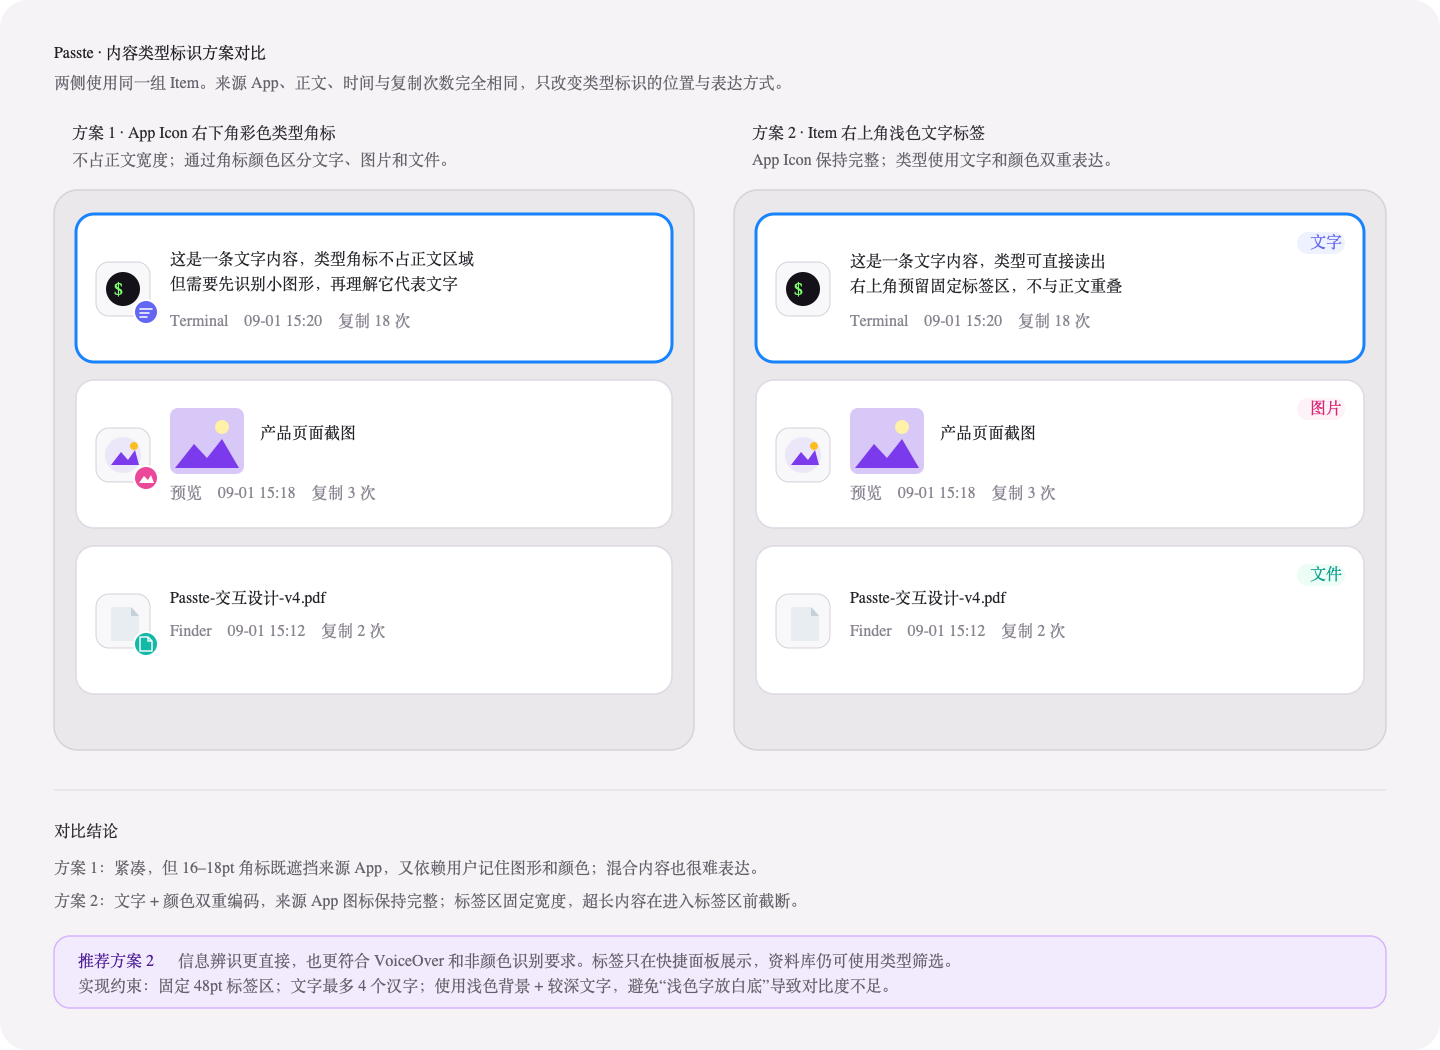
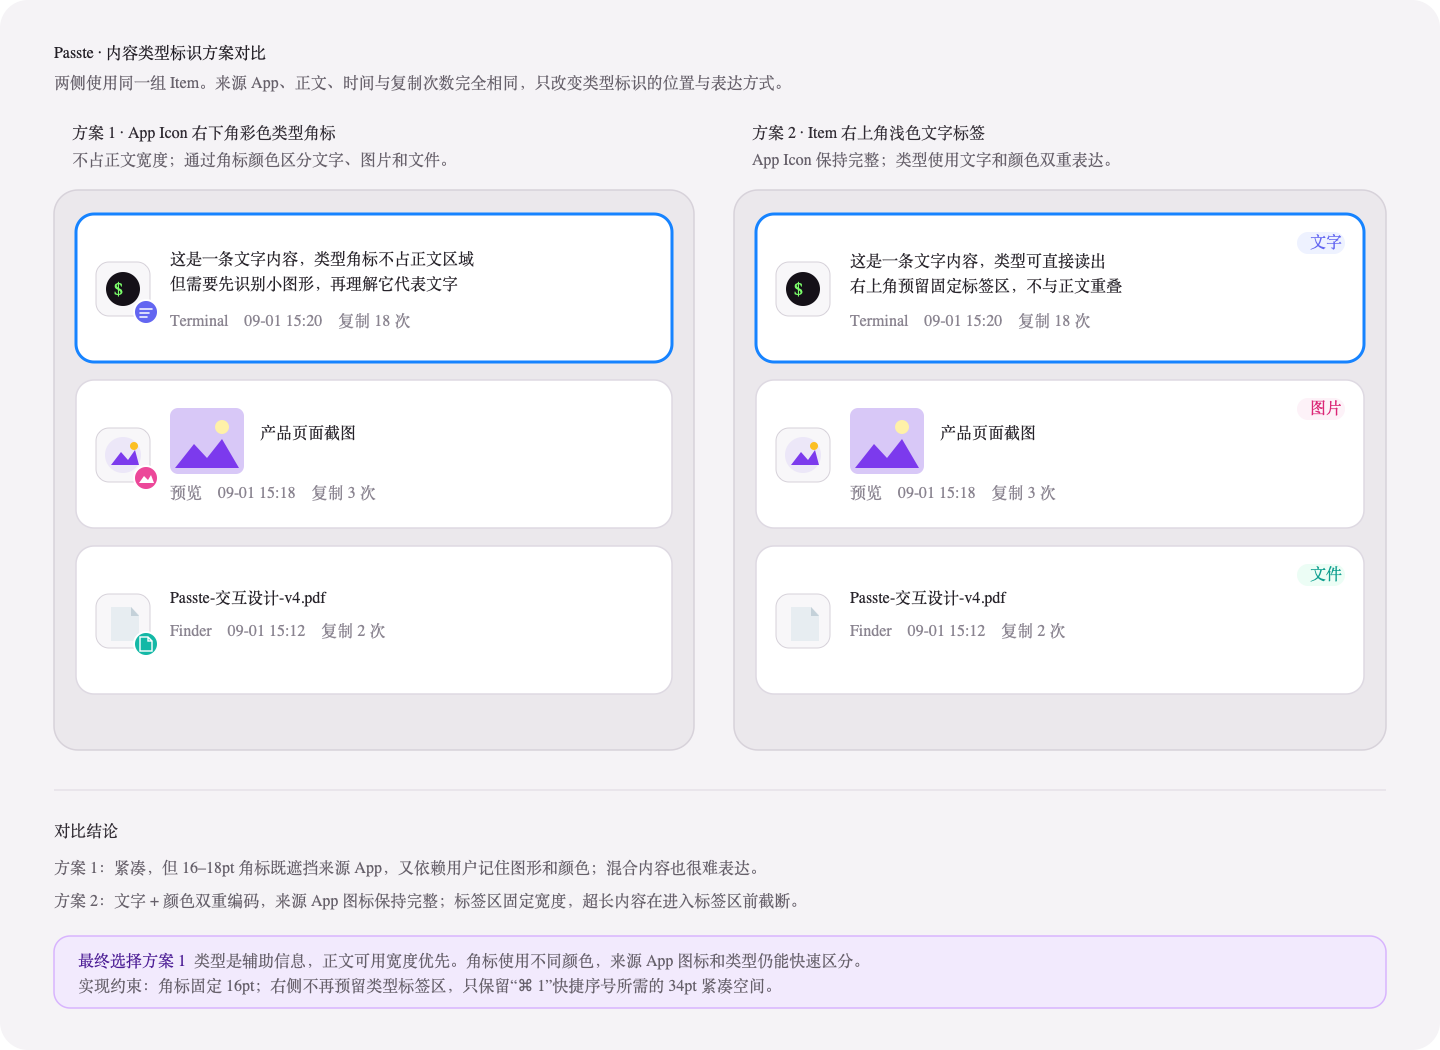
fix: prioritize clip content width

Changed region(s): [[0.0625, 0.8838, 0.6562, 0.9448]]

diff --git a/Sources/Passte/AppCoordinator.swift b/Sources/Passte/AppCoordinator.swift
@@ -13,6 +13,9 @@ final class AppCoordinator: NSObject, NSMenuDelegate {
     private var libraryWindow: NSWindow?
     private var settingsWindow: NSWindow?
     private var onboardingWindow: NSWindow?
+#if DEBUG
+    private var debugQuickWindow: NSWindow?
+#endif
     private var workspaceObserver: NSObjectProtocol?
     private var libraryKeyMonitor: Any?
     private var maintenanceTimer: Timer?
@@ -60,18 +63,36 @@ final class AppCoordinator: NSObject, NSMenuDelegate {
 
     func start() {
         configureStatusItem()
+#if DEBUG
+        if !ProcessInfo.processInfo.arguments.contains("--debug-disable-hotkey") {
+            registerHotKey()
+        }
+#else
         registerHotKey()
+#endif
         Task { await state.bootstrap() }
         maintenanceTimer = Timer.scheduledTimer(withTimeInterval: 86_400, repeats: true) { [weak state] _ in
             Task { @MainActor in await state?.runArchive() }
         }
         settings.monitoringEnabled = true
+#if DEBUG
+        if !ProcessInfo.processInfo.arguments.contains("--debug-disable-monitor") {
+            monitor.start()
+        }
+#else
         monitor.start()
+#endif
         if !settings.completedOnboarding {
             openOnboarding()
         }
 #if DEBUG
-        if ProcessInfo.processInfo.arguments.contains("--debug-show-quick-panel") {
+        if ProcessInfo.processInfo.arguments.contains("--debug-show-quick-window") {
+            Task { [weak self] in
+                guard let self else { return }
+                if ProcessInfo.processInfo.arguments.contains("--debug-seed") { await seedDebugData() }
+                try? await Task.sleep(for: .milliseconds(600)); openDebugQuickWindow()
+            }
+        } else if ProcessInfo.processInfo.arguments.contains("--debug-show-quick-panel") {
             Task { [weak self] in
                 guard let self else { return }
                 if ProcessInfo.processInfo.arguments.contains("--debug-seed") { await seedDebugData() }
@@ -85,6 +106,34 @@ final class AppCoordinator: NSObject, NSMenuDelegate {
     }
 
 #if DEBUG
+    private func openDebugQuickWindow() {
+        let view = QuickPanelView(
+            state: state,
+            onCopy: { _, _, _ in },
+            onOpenLibrary: {},
+            onOpenSettings: {},
+            onCreateTextClip: {},
+            onCreateCollection: { _ in },
+            onEditCollection: { _ in },
+            onDeleteCollection: { _ in }
+        )
+        let window = NSWindow(
+            contentRect: NSRect(x: 0, y: 0, width: 380, height: 660),
+            styleMask: [.titled, .closable, .resizable],
+            backing: .buffered,
+            defer: false
+        )
+        window.title = "Passte 快捷面板实际测试"
+        window.contentViewController = NSHostingController(rootView: view.frame(width: 380, height: 660))
+        window.setContentSize(NSSize(width: 380, height: 660))
+        window.center()
+        window.isReleasedWhenClosed = false
+        debugQuickWindow = window
+        window.makeKeyAndOrderFront(nil)
+        NSApp.activate(ignoringOtherApps: true)
+        Task { await state.prepareQuickPanel() }
+    }
+
     private func seedDebugData() async {
         let samples = [
             ("这是一条用于验证超长文本截断和布局边界的剪贴板内容，它不应该把时间、来源应用或快捷键挤出卡片，也不能覆盖相邻的条目。", "com.apple.Terminal", "一个名称同样非常长的测试来源应用"),
@@ -102,8 +151,13 @@ final class AppCoordinator: NSObject, NSMenuDelegate {
             await state.accept(capture)
         }
         if var metadataSample = state.quickClips.first {
-            metadataSample.title = String(repeating: "这是一个很长的用户标题，用来验证标题会在卡片边界内截断。", count: 5)
-            metadataSample.note = String(repeating: "这是一条很长的备注，用于确认标题、正文、备注、复制次数和图钉同时存在时仍然清晰。", count: 10)
+            if ProcessInfo.processInfo.arguments.contains("--debug-screenshot-seed") {
+                metadataSample.title = "快捷面板类型标识实际测试：超长标题需要在标签前截断"
+                metadataSample.note = "备注、正文、类型标签和复制次数不能互相覆盖"
+            } else {
+                metadataSample.title = String(repeating: "这是一个很长的用户标题，用来验证标题会在卡片边界内截断。", count: 5)
+                metadataSample.note = String(repeating: "这是一条很长的备注，用于确认标题、正文、备注、复制次数和图钉同时存在时仍然清晰。", count: 10)
+            }
             metadataSample.isPinned = true
             metadataSample.copyCount = 128
             state.update(metadataSample)
@@ -125,6 +179,21 @@ final class AppCoordinator: NSObject, NSMenuDelegate {
             )
             await state.accept(capture)
         }
+        let linkCapture = PasteboardCapture(
+            items: [CapturedItem(order: 0, representations: [CapturedRepresentation(uti: "public.url", data: Data("https://passte.app/design/type-marker".utf8))])],
+            source: ClipSource(appName: "Safari", bundleIdentifier: "com.apple.Safari", confidence: .high)
+        )
+        await state.accept(linkCapture)
+        let codeCapture = PasteboardCapture(
+            items: [CapturedItem(order: 0, representations: [CapturedRepresentation(uti: "public.utf8-plain-text", data: Data("swift test && make verify".utf8))])],
+            source: ClipSource(appName: "终端", bundleIdentifier: "com.apple.Terminal", confidence: .high)
+        )
+        await state.accept(codeCapture)
+        let fileCapture = PasteboardCapture(
+            items: [CapturedItem(order: 0, representations: [CapturedRepresentation(uti: "public.file-url", data: Data("file:///tmp/Passte-%E4%BA%A4%E4%BA%92%E8%AE%BE%E8%AE%A1-v4.pdf".utf8))])],
+            source: ClipSource(appName: "访达", bundleIdentifier: "com.apple.finder", confidence: .high)
+        )
+        await state.accept(fileCapture)
         _ = await state.addCollection(name: "开发资料", smart: false)
         _ = await state.addCollection(name: "Lark Open API", smart: false)
         _ = await state.addCollection(name: "KMP", smart: false)

diff --git a/Sources/Passte/ClipViews.swift b/Sources/Passte/ClipViews.swift
@@ -41,7 +41,9 @@ struct ClipRowView: View {
             .frame(maxWidth: .infinity, alignment: .leading)
             Spacer(minLength: 4)
             VStack(alignment: .trailing, spacing: 0) {
-                ClipKindLabel(kind: clip.primaryKind)
+                if !ClipTypeMarkerPreview.overlaysSourceIcon {
+                    ClipKindLabel(kind: clip.primaryKind)
+                }
                 Spacer(minLength: 0)
                 if let shortcutNumber {
                     Text("⌘ \(shortcutNumber)")
@@ -50,14 +52,17 @@ struct ClipRowView: View {
                         .fixedSize()
                 }
             }
-            .frame(width: compact ? 54 : 58, height: 56, alignment: .trailing)
+            .frame(
+                width: ClipTypeMarkerPreview.overlaysSourceIcon ? (compact ? 34 : 38) : (compact ? 54 : 58),
+                height: 56,
+                alignment: .trailing
+            )
             .padding(.trailing, 4)
             .padding(.bottom, 4)
         }
         .frame(height: compact ? 72 : 72)
         .clipped()
-        .accessibilityElement(children: .combine)
-        .accessibilityLabel(accessibilitySummary)
+        .modifier(ClipRowAccessibility(summary: accessibilitySummary))
     }
 
     private var timestamp: String {
@@ -162,17 +167,42 @@ struct ClipRowView: View {
     }
 }
 
+private struct ClipRowAccessibility: ViewModifier {
+    let summary: String
+
+    @ViewBuilder
+    func body(content: Content) -> some View {
+#if DEBUG
+        if ProcessInfo.processInfo.arguments.contains("--debug-ui-qa") {
+            content.accessibilityHidden(true)
+        } else {
+            content.accessibilityElement(children: .combine).accessibilityLabel(summary)
+        }
+#else
+        content.accessibilityElement(children: .combine).accessibilityLabel(summary)
+#endif
+    }
+}
+
 private struct ClipLeadingVisual: View {
     let clip: Clip
     @State private var appIcon: NSImage?
 
     var body: some View {
-        ZStack {
+        ZStack(alignment: .bottomTrailing) {
             if let appIcon {
                 Image(nsImage: appIcon).resizable().scaledToFit().padding(3)
             } else {
                 RoundedRectangle(cornerRadius: 9).fill(Color.accentColor.opacity(0.12))
                 Image(systemName: clip.primaryKind.symbolName).foregroundStyle(Color.accentColor)
+            }
+            if ClipTypeMarkerPreview.overlaysSourceIcon {
+                Image(systemName: clip.primaryKind.symbolName)
+                    .font(.system(size: 8, weight: .bold))
+                    .foregroundStyle(.white)
+                    .frame(width: 16, height: 16)
+                    .background(clip.primaryKind.markerColor, in: Circle())
+                    .overlay(Circle().stroke(.white, lineWidth: 1.5))
             }
         }
         .clipShape(RoundedRectangle(cornerRadius: 9))
@@ -194,17 +224,19 @@ private struct ClipKindLabel: View {
     var body: some View {
         Text(kind.displayName)
             .font(.system(size: 10, weight: .semibold))
-            .foregroundStyle(markerColor)
+            .foregroundStyle(kind.markerColor)
             .lineLimit(1)
             .fixedSize()
             .padding(.horizontal, 7)
             .padding(.vertical, 3)
-            .background(markerColor.opacity(0.10), in: Capsule())
-            .accessibilityLabel("内容类型：\(kind.displayName)")
+            .background(kind.markerColor.opacity(0.10), in: Capsule())
+            .accessibilityHidden(true)
     }
+}
 
-    private var markerColor: Color {
-        switch kind {
+private extension ClipKind {
+    var markerColor: Color {
+        switch self {
         case .text: Color(red: 0.39, green: 0.40, blue: 0.95)
         case .image: Color(red: 0.86, green: 0.15, blue: 0.47)
         case .link: Color(red: 0.10, green: 0.45, blue: 0.86)
@@ -213,6 +245,16 @@ private struct ClipKindLabel: View {
         case .file: Color(red: 0.06, green: 0.62, blue: 0.56)
         case .mixed: Color(red: 0.42, green: 0.40, blue: 0.45)
         }
+    }
+}
+
+private enum ClipTypeMarkerPreview {
+    static var overlaysSourceIcon: Bool {
+#if DEBUG
+        !ProcessInfo.processInfo.arguments.contains("--debug-type-marker-as-label")
+#else
+        true
+#endif
     }
 }
 

diff --git a/Sources/Passte/QuickPanelController.swift b/Sources/Passte/QuickPanelController.swift
@@ -3,8 +3,9 @@ import PassteCore
 import SwiftUI
 
 final class PasstePanel: NSPanel {
+    var allowsMainWindow = false
     override var canBecomeKey: Bool { true }
-    override var canBecomeMain: Bool { false }
+    override var canBecomeMain: Bool { allowsMainWindow }
 }
 
 @MainActor
@@ -40,15 +41,29 @@ final class QuickPanelController: NSObject {
         self.onOpenLibrary = onOpenLibrary; self.onOpenSettings = onOpenSettings
         self.onCreateTextClip = onCreateTextClip; self.onCreateCollection = onCreateCollection
         self.onEditCollection = onEditCollection; self.onDeleteCollection = onDeleteCollection
+#if DEBUG
+        let isDebugUIQA = ProcessInfo.processInfo.arguments.contains("--debug-ui-qa")
+        let panelStyleMask: NSWindow.StyleMask = isDebugUIQA
+            ? [.borderless, .resizable]
+            : [.nonactivatingPanel, .borderless, .resizable]
+#else
+        let panelStyleMask: NSWindow.StyleMask = [.nonactivatingPanel, .borderless, .resizable]
+#endif
         panel = PasstePanel(
             contentRect: NSRect(x: 0, y: 0, width: 380, height: 660),
-            styleMask: [.nonactivatingPanel, .borderless, .resizable],
+            styleMask: panelStyleMask,
             backing: .buffered,
             defer: false
         )
         super.init()
-        panel.isOpaque = false; panel.backgroundColor = .clear; panel.hasShadow = true
+#if DEBUG
+        panel.allowsMainWindow = isDebugUIQA
+        panel.isFloatingPanel = !isDebugUIQA; panel.level = isDebugUIQA ? .normal : .floating; panel.hidesOnDeactivate = false
+#else
+        panel.allowsMainWindow = false
         panel.isFloatingPanel = true; panel.level = .floating; panel.hidesOnDeactivate = false
+#endif
+        panel.isOpaque = false; panel.backgroundColor = .clear; panel.hasShadow = true
         panel.becomesKeyOnlyIfNeeded = false
         panel.collectionBehavior = [.canJoinAllSpaces, .fullScreenAuxiliary, .transient]
         panel.minSize = NSSize(width: 340, height: 480); panel.maxSize = NSSize(width: 520, height: 760)

diff --git a/Sources/Passte/PassteApplication.swift b/Sources/Passte/PassteApplication.swift
@@ -8,7 +8,13 @@ enum PassteApplication {
         let application = NSApplication.shared
         let delegate = AppDelegate()
         application.delegate = delegate
+#if DEBUG
+        application.setActivationPolicy(
+            ProcessInfo.processInfo.arguments.contains("--debug-ui-qa") ? .regular : .accessory
+        )
+#else
         application.setActivationPolicy(.accessory)
+#endif
         application.run()
         _ = delegate
     }
